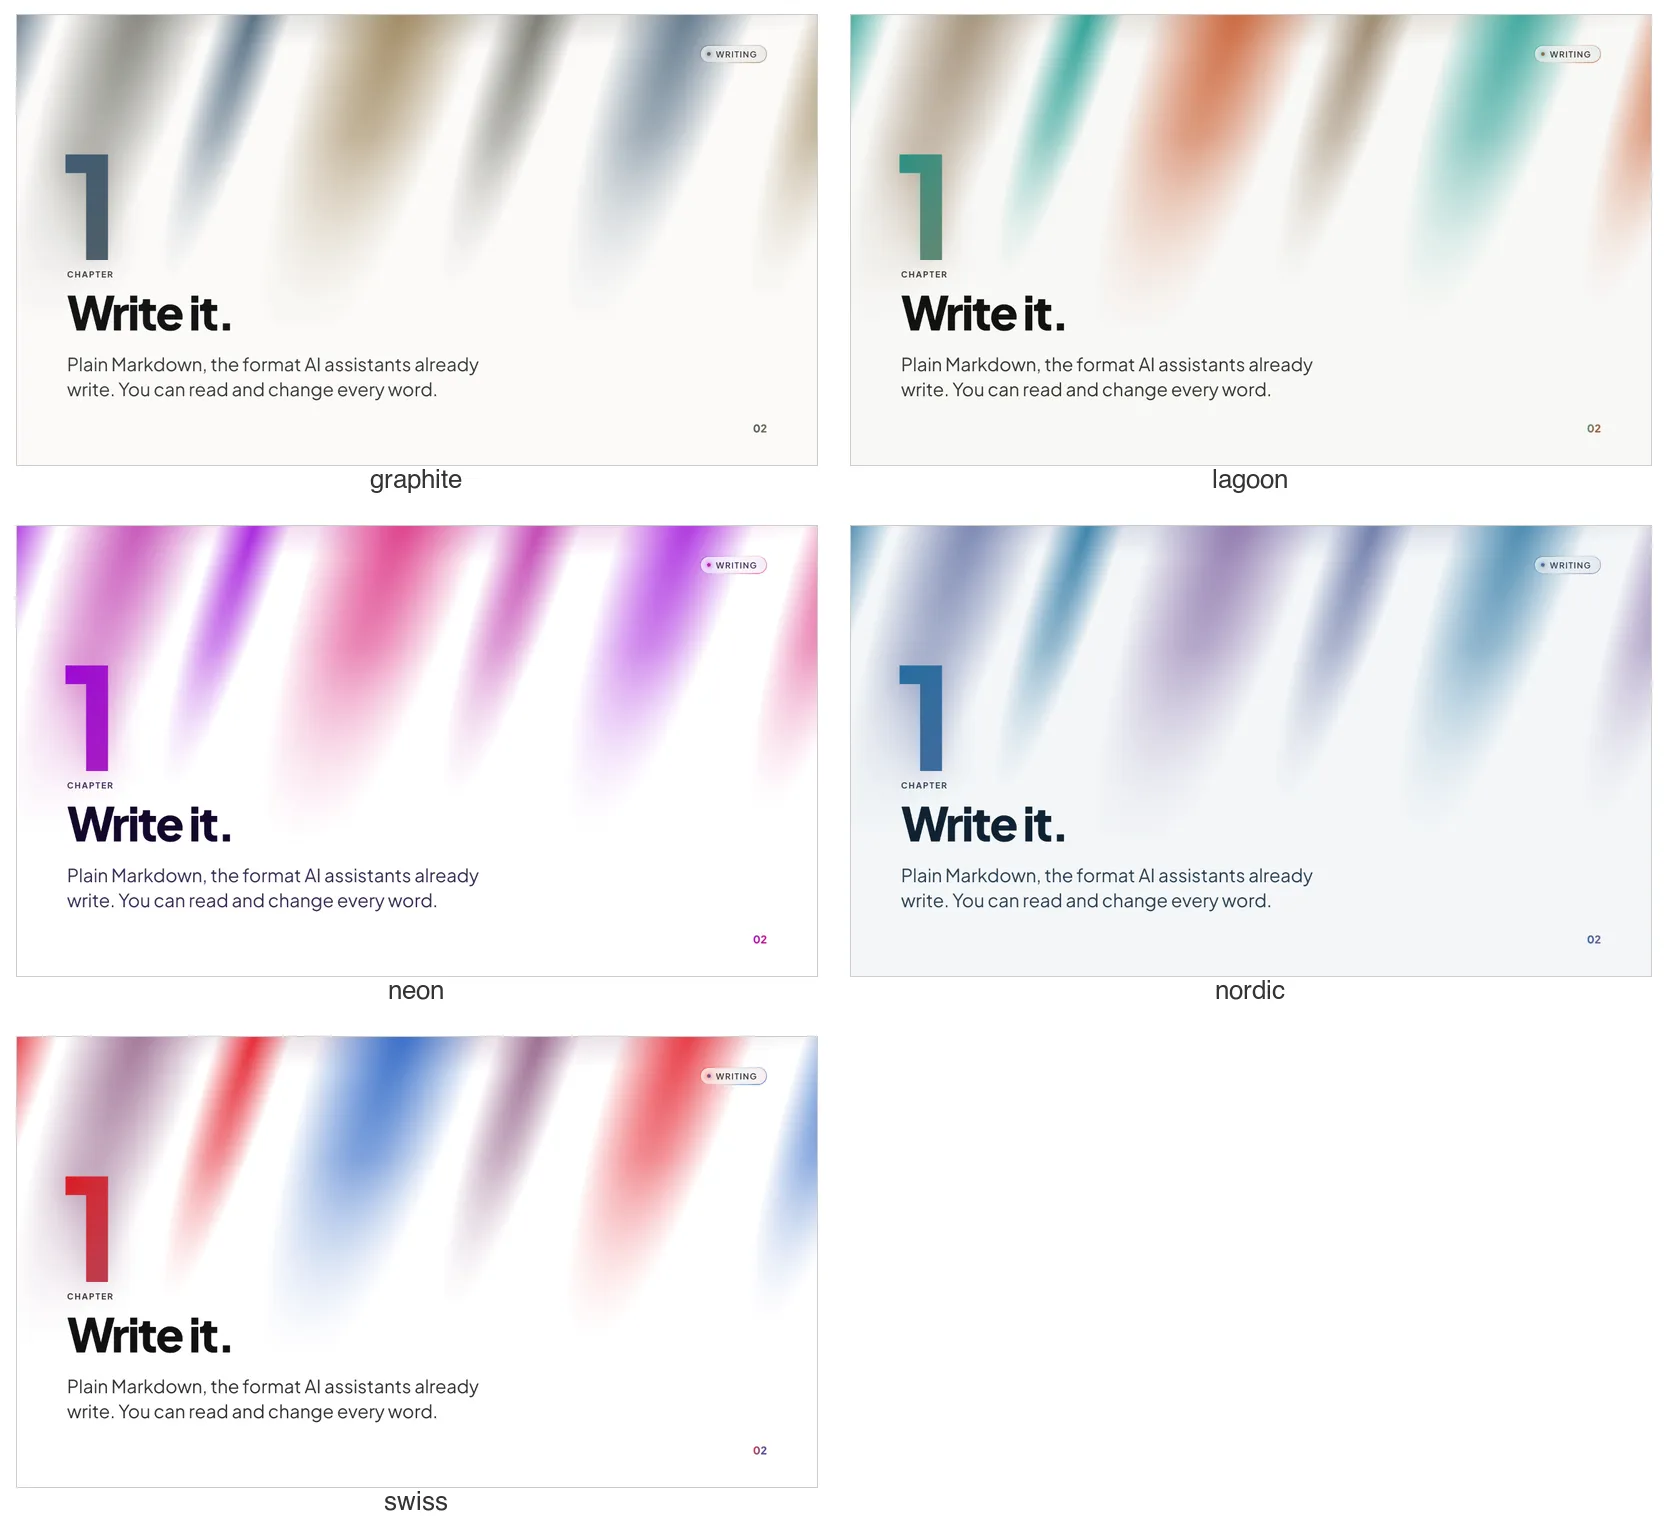
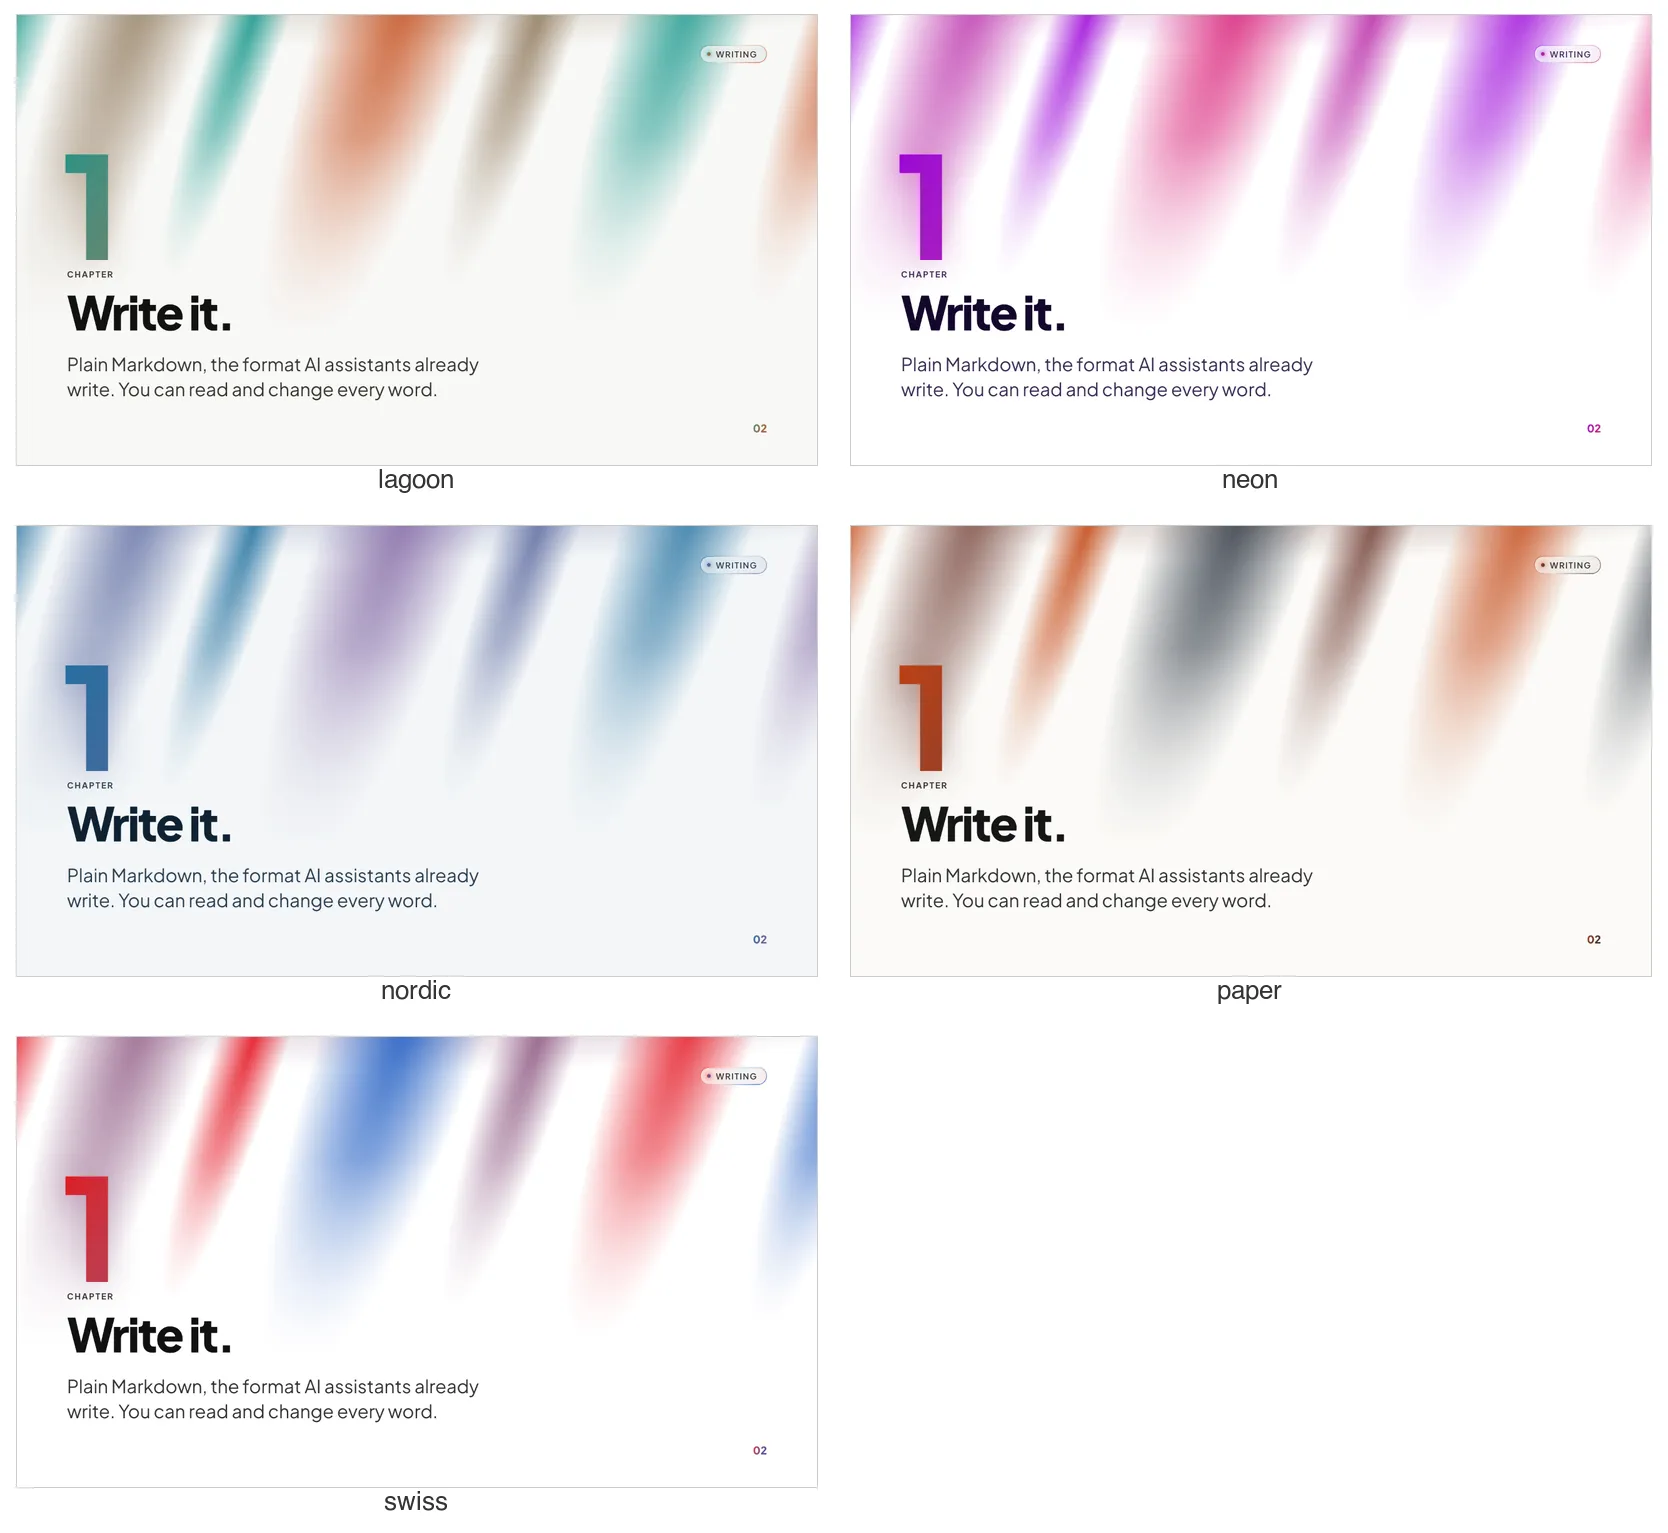
Give minimal its own palette, paper; move graphite to the repository
Paper is off-white and near-black with one orange accent (charcoal and a
softer orange in the dark), clearly apart from swiss and nordic. Graphite,
close to nordic, becomes a pack in the theme repository; a deck that uses
it is told to install it.

diff --git a/tests/extensions.test.js b/tests/extensions.test.js
@@ -90,7 +90,7 @@ test('common manifest mistakes fail with the file, setting path and reason', () 
 
 test('built-in and deck-local extensions load through one registry', () => {
   assert.deepEqual(Object.keys(registry.themes), ['academic', 'aurora', 'minimal', 'neue'])
-  assert.deepEqual(Object.keys(registry.palettes), ['graphite', 'lagoon', 'neon', 'nordic', 'swiss'])
+  assert.deepEqual(Object.keys(registry.palettes), ['lagoon', 'neon', 'nordic', 'paper', 'swiss'])
   assert.equal(registry.layouts.comparison.source, 'local')
   assert.equal(registry.layouts.title.source, 'built-in')
   assert.deepEqual(registry.warnings, [])
@@ -113,7 +113,7 @@ test('the generated runtime module imports every layout and lazily loads theme s
   assert.match(code, /import L\d+ from ".*\/extensions\/comparison\/layout\.jsx"/)
   assert.match(code, /import ".*\/comparison\/styles\.css"/)
   assert.match(code, /"neue": \{ manifest: \{.*"tokens".*load: \(\) => Promise\.all\(\[import\(".*\/packs\/neue\/neue\/styles\.css\?inline"\)\]\)/)
-  assert.match(code, /export const palettes = \{\n"graphite"/)
+  assert.match(code, /export const palettes = \{\n"lagoon"/)
 })
 
 test('a file for readers carries only the deck theme and the palette it shows', () => {
@@ -145,7 +145,7 @@ test('deck checks agree with the registry about themes, palettes and parameters'
   assert.match(foreign[0].message, /The theme "house" does not offer the palette "lagoon"; available: house-colours/)
   const warnings = validateDeck(parseSlides('---\ntheme: night\nparams:\n  fontBody: serif\n---\n# Hi'), houseOptions)
   assert.deepEqual(warnings.map(d => [d.code, d.severity]), [['unknown-param', 'warning']])
-  assert.deepEqual(validateDeck(parseSlides('---\ntheme: aurora\npalette: graphite\nappearance: dark\n---\n# Hi'), options), [])
+  assert.deepEqual(validateDeck(parseSlides('---\ntheme: aurora\npalette: paper\nappearance: dark\n---\n# Hi'), options), [])
   // Themes and palettes that moved to the theme repository say how to get them.
   const moved = validateDeck(parseSlides('---\ntheme: duet\npalette: forest\n---\n# Hi'), options)
   assert.deepEqual(moved.map(d => d.code), ['unknown-theme', 'unknown-palette'])
@@ -203,8 +203,8 @@ test('appearance: the theme default palette, the deck palette and appearance, th
   assert.match(base.paletteCss, /--inverse-accent: #7cc4ea;/)
   assert.equal(base.overridesCss, '')
   assert.deepEqual(base.fonts, theme.fonts)
-  const full = buildAppearance({ theme, palettes, palette: 'graphite', appearance: 'dark', params: { fontBody: 'serif', bogus: 1 }, meta: { title: 'T "q"' }, offline: true })
-  assert.match(full.paletteCss, /--accent: #9fc2e0;/)
+  const full = buildAppearance({ theme, palettes, palette: 'paper', appearance: 'dark', params: { fontBody: 'serif', bogus: 1 }, meta: { title: 'T "q"' }, offline: true })
+  assert.match(full.paletteCss, /--accent: #fb8c4a;/)
   assert.ok(Object.keys(DARK_TOKENS).every(token => full.paletteCss.includes(token)), 'dark code colours and logo filter')
   assert.equal(full.overridesCss, ':root {\n  --font-body: serif;\n  --meta-title: "T \\"q\\"";\n}')
   assert.deepEqual(full.fonts, [])
@@ -213,7 +213,7 @@ test('appearance: the theme default palette, the deck palette and appearance, th
   assert.match(buildAppearance({ theme, palettes, palette: 'missing' }).warnings[0], /^Unknown palette "missing"/)
 
   assert.equal(paletteColor('--accent', { theme, palettes }), '#1f6f9f')
-  assert.equal(paletteColor('--accent', { theme, palettes, palette: 'graphite', appearance: 'dark' }), '#9fc2e0')
+  assert.equal(paletteColor('--accent', { theme, palettes, palette: 'paper', appearance: 'dark' }), '#fb8c4a')
 })
 
 test('mdeck check warns about a misspelled callout type, but not about known blocks or the deck\'s own', () => {

diff --git a/tests/palettes.test.js b/tests/palettes.test.js
@@ -34,18 +34,18 @@ test('a deck gets the theme default, its own palette, and the other variant for 
   assert.equal(plain.appearance, 'light')
   assert.match(plain.paletteCss, /--bg: #ffffff;/)
   assert.match(plain.paletteCss, /--inverse-bg: #0d0d0d;/)
-  const dark = buildAppearance({ theme: themes.neue, palettes, palette: 'graphite', appearance: 'dark' })
-  assert.match(dark.paletteCss, /--bg: #141414;/)
-  assert.match(dark.paletteCss, /--inverse-bg: #fbfaf8;/)
+  const dark = buildAppearance({ theme: themes.neue, palettes, palette: 'paper', appearance: 'dark' })
+  assert.match(dark.paletteCss, /--bg: #151515;/)
+  assert.match(dark.paletteCss, /--inverse-bg: #fbfaf7;/)
   assert.match(dark.paletteCss, /color-scheme: dark;/)
   assert.equal(buildAppearance({ theme: houseThemes.night, palettes }).appearance, 'dark', 'night starts dark')
 })
 
 test('an unknown palette, or one the theme does not offer, falls back to the default with a warning', () => {
-  const unknown = resolvePalette({ theme: themes.neue, palettes, palette: 'paper' })
+  const unknown = resolvePalette({ theme: themes.neue, palettes, palette: 'papyrus' })
   assert.equal(unknown.palette.id, 'swiss')
-  assert.match(unknown.warnings[0], /Unknown palette "paper"/)
-  const foreign = resolvePalette({ theme: houseThemes.house, palettes: housePalettes, palette: 'graphite' })
+  assert.match(unknown.warnings[0], /Unknown palette "papyrus"/)
+  const foreign = resolvePalette({ theme: houseThemes.house, palettes: housePalettes, palette: 'paper' })
   assert.equal(foreign.palette.id, 'house-colours')
   assert.match(foreign.warnings[0], /does not offer/)
 })

diff --git a/tests/editor-extensions.test.js b/tests/editor-extensions.test.js
@@ -24,13 +24,13 @@ test('every built-in manifest round-trips through the editor model', () => {
 })
 
 test('starter files for new extensions validate', () => {
-  for (const [kind, from] of [['palette', null], ['palette', registry.palettes.graphite.manifest], ['theme', registry.themes.aurora.manifest]]) {
+  for (const [kind, from] of [['palette', null], ['palette', registry.palettes.paper.manifest], ['theme', registry.themes.aurora.manifest]]) {
     const files = starterFiles(kind, 'fresh', 'Fresh', from, { 'styles.css': '.slide {}' })
     const record = validateManifest(parseManifest(files['extension.toml']).raw, { file: 'x', dir: '/x/fresh', folderName: 'fresh', fileExists: path => Object.hasOwn(files, path.slice('/x/fresh/'.length)) })
     assert.equal(record.kind, kind)
     assert.equal(record.title, 'Fresh')
     if (kind === 'theme') assert.equal(record.manifest.palette, 'neon', 'a copy keeps the default palette')
-    if (kind === 'palette' && from) assert.equal(record.manifest.dark['--accent'], '#9fc2e0', 'a copy keeps both variants')
+    if (kind === 'palette' && from) assert.equal(record.manifest.dark['--accent'], '#fb8c4a', 'a copy keeps both variants')
   }
   assert.throws(() => starterFiles('theme', 'fresh', 'Fresh'), /copy/)
   assert.match(parseManifest('id = \n').error, /value expected|invalid value/)

diff --git a/tests/edit.test.js b/tests/edit.test.js
@@ -138,10 +138,10 @@ test('every helper keeps the example decks valid', () => {
   check(setRegion(deck, 'deployment-options', 'left', '## Left\n\nChanged'))
   check(setSlideMeta(deck, 'deployment-options', { props: { ratio: [1, 1], emphasis: 'left' }, section: 'Intro' }))
   check(setSlideNotes(deck, 'built-in-regions', 'Remember to pause.'))
-  check(setDeckConfig(deck, { palette: 'graphite', appearance: 'dark' }))
+  check(setDeckConfig(deck, { palette: 'paper', appearance: 'dark' }))
   check(insertSlide(deck, 1, layouts.split.starter).source)
   check(moveSlide(deck, 'built-in-regions', 0).source)
   assert.equal(deck.slides.length, 3)
   assert.equal(deck.slides[1].regions.left.content, '## Left\n\nChanged')
-  assert.deepEqual(deck.deckConfig, { theme: 'neue', meta: { title: 'Deck-local layouts' }, palette: 'graphite', appearance: 'dark' })
+  assert.deepEqual(deck.deckConfig, { theme: 'neue', meta: { title: 'Deck-local layouts' }, palette: 'paper', appearance: 'dark' })
 })

diff --git a/src/extensions/moved.js b/src/extensions/moved.js
@@ -3,7 +3,7 @@
 // how to install it instead of being told the name is unknown.
 export const MOVED = {
   themes: { duet: 'duet', editorial: 'editorial', fhnw: 'fhnw', terminal: 'terminal', sketch: 'sketch' },
-  palettes: { cobalt: 'duet', terra: 'editorial', brand: 'fhnw', phosphor: 'terminal', pastel: 'sketch', ember: 'earth', forest: 'earth' },
+  palettes: { cobalt: 'duet', terra: 'editorial', brand: 'fhnw', phosphor: 'terminal', pastel: 'sketch', ember: 'earth', forest: 'earth', graphite: 'graphite' },
 }
 
 // "The theme "duet" is no longer built in: mdeck themes install duet", or null.

diff --git a/CHANGELOG.md b/CHANGELOG.md
@@ -2,11 +2,11 @@
 
 ## 3.0.0 — unreleased
 
-- Every theme and palette now comes in a pack, also those that come with mdeck: `neue`, `academic`, `aurora` and `minimal` (each a theme with its palette) and the palette `lagoon`. They work right away and offline, and can be removed: `mdeck themes remove aurora` hides it from every deck, `mdeck themes install aurora` brings it back without the internet. A newer version from the theme repository replaces the bundled one. A deck without a theme still uses `neue`, and says so when it was removed; the last theme cannot be removed.
+- Every theme and palette now comes in a pack, also those that come with mdeck: `neue`, `academic`, `aurora` and `minimal` (each a theme with its palette) and the palette `lagoon`. `graphite`, close to `nordic`, moved to the theme repository as a pack of its own. They work right away and offline, and can be removed: `mdeck themes remove aurora` hides it from every deck, `mdeck themes install aurora` brings it back without the internet. A newer version from the theme repository replaces the bundled one. A deck without a theme still uses `neue`, and says so when it was removed; the last theme cannot be removed.
 - `mdeck themes install <pack>` installs for every deck by default; a slide file, a folder or `--local` installs beside that deck. Packs can require other packs (`requires = ["lagoon"]` in `pack.toml`) for palettes their themes use: installing one installs those too, and removing a pack another one needs is refused. The design page lists the packs you can install, including removed bundled ones, and removes a pack for every deck.
 - `mdeck check` no longer warns about themes installed for every deck.
 - Fewer built-in looks: mdeck now comes with the themes `neue`, `academic`, `aurora` and the new `minimal` and the palettes `swiss`, `nordic`, `neon`, `lagoon` and `graphite`. The others moved to the theme repository as packs of the same name: `duet` (with `cobalt`), `editorial` (with `terra`), `fhnw` (with `brand`), `terminal` (with `phosphor`) and `sketch` (with `pastel`), and the palettes `ember` and `forest` as `earth`. A deck that uses one gets an error that says what to run, for example `mdeck themes install duet my-talk.md`; files made with `mdeck send` or `mdeck build` keep working, because they carry their theme.
-- New theme `minimal`: nothing but the content, in the computer's own fonts (no web fonts, so it works offline), with medium weights, space instead of rules and boxes, and "Chapter 2" as a quiet label above chapter titles. Its default palette is `graphite`.
+- New theme `minimal`: nothing but the content, in the computer's own fonts (no web fonts, so it works offline), with medium weights, space instead of rules and boxes, and "Chapter 2" as a quiet label above chapter titles. Its default palette is the new `paper`: off-white and near-black with one orange accent, charcoal and a softer orange in the dark.
 - The sample deck's picture is a drawing in the palette's colours, and an SVG data URL that uses theme colours is drawn inline like an SVG file. A drawing in a picture's place now takes the space the layout gives it, like a photo, instead of pushing headings aside.
 - The launch page of `mdeck run` has a Theme editor tile under Write and learn; it opens the design page of the deck's editor.
 - The examples use built-in themes: the Python lesson `academic`, the poll and custom-layout examples `neue`, the docs home page talk `academic`.

diff --git a/docs/site/content/appearance.md b/docs/site/content/appearance.md
@@ -58,7 +58,7 @@ Default colours: `nordic`.
 
 [![The tour's title slide in the Minimal theme](images/themes/minimal.webp)](images/themes/minimal.webp)
 
-Default colours: `graphite`. It uses the fonts already on the computer, so it needs no internet connection and looks plain on purpose.
+Default colours: `paper`. It uses the fonts already on the computer, so it needs no internet connection and looks plain on purpose.
 
 ## Choose colours
 
@@ -70,12 +70,12 @@ To use other colours, set `palette` to one of these:
 | `nordic` | Ice grey, deep navy and a cool steel blue (academic's own) |
 | `neon` | Violet and magenta, loud (aurora's own) |
 | `lagoon` | Teal on warm stone |
-| `graphite` | Black and white with a steel-blue accent |
+| `paper` | Off-white and near-black with one orange accent (minimal's own) |
 
 ```yaml
 ---
 theme: neue
-palette: graphite
+palette: paper
 ---
 ```
 
@@ -133,6 +133,7 @@ Earlier versions of mdeck came with more themes and palettes. They are now packs
 | `terminal` | The terminal theme (headings typed at a prompt, a status bar) and the `phosphor` palette; it starts dark |
 | `sketch` | The sketch theme (handwriting, marker scribbles, sticky notes) and the `pastel` palette |
 | `earth` | The `ember` and `forest` palettes |
+| `graphite` | The `graphite` palette: black and white with a steel-blue accent |
 
 A deck that still names one of them stops with a message that tells you what to install, for example:
 

diff --git a/docs/reference/authoring.md b/docs/reference/authoring.md
@@ -41,7 +41,7 @@ Each `---` line starts a new slide. Frontmatter is only needed when you want a s
 | Field | Default | Description |
 |---|---|---|
 | `theme` | `neue` | Theme name |
-| `palette` | _(theme default)_ | Colour palette: `swiss`, `nordic`, `neon`, `lagoon`, `graphite`, one installed from the theme repository, or one of your own |
+| `palette` | _(theme default)_ | Colour palette: `swiss`, `nordic`, `neon`, `lagoon`, `paper`, one installed from the theme repository, or one of your own |
 | `appearance` | _(theme default)_ | `light` or `dark`: which variant of the palette the slides use |
 | `meta.title` | — | Deck title (shown in footer) |
 | `meta.author` | — | Author name (shown in footer) |
@@ -126,7 +126,7 @@ Each palette has a light and a dark variant; `appearance:` picks one.
 | `nordic` | Ice grey, navy, steel blue (academic's default) | Polar night, ice blue |
 | `neon` | White, violet, magenta (aurora's default) | Black, neon violet and pink |
 | `lagoon` | Teal on warm stone | Bright teal on teal-black |
-| `graphite` | Black and white, steel blue | Charcoal, light steel blue |
+| `paper` | Off-white, near-black, orange (minimal's default) | Charcoal, soft orange |
 
 More palettes (cobalt, terra, phosphor, pastel, ember, forest, among others)
 are in the theme repository; install them with `mdeck themes install <pack> <deck>.md`.

diff --git a/docs/reference/themes.md b/docs/reference/themes.md
@@ -18,7 +18,7 @@ theme: neue
 |---|---|---|
 | `neue` | Swiss style: large flush-left type, rules, red on white | `swiss` |
 | `aurora` | Northern lights: curtains of light, night-sky chapters, frosted glass | `neon` |
-| `minimal` | Nothing but the content: system fonts, calm type, no decoration; works offline | `graphite` |
+| `minimal` | Nothing but the content: system fonts, calm type, no decoration; works offline | `paper` |
 | `academic` | A lecture: compact type, the heading fixed at the top and the content centred below, theorem and definition blocks, booktabs tables, a footnote rule | `nordic` |
 
 `mdeck list my-talk.md` lists them with their descriptions.

diff --git a/docs/reference/palettes.md b/docs/reference/palettes.md
@@ -24,7 +24,7 @@ The presenter view and the reader view switch palette and light or dark without 
 | `nordic` | ice grey, deep navy and a cool steel blue | polar night with ice blue |
 | `neon` | white with violet and magenta | black with neon violet and pink |
 | `lagoon` | teal on warm stone, orange second accent | deep teal-black, bright teal |
-| `graphite` | black and white with a steel-blue accent | charcoal with light steel blue |
+| `paper` | off-white paper and near-black ink with one orange accent | charcoal with a softer orange |
 
 `mdeck list palettes` lists them, with any of your own.
 

diff --git a/skills/write-slides/SKILL.md b/skills/write-slides/SKILL.md
@@ -34,7 +34,7 @@ If `mdeck` is not installed, rely on the quick reference below.
 ```markdown
 ---
 theme: neue            # theme id from `mdeck list themes`
-palette: nordic         # optional: swiss, nordic, neon, lagoon, graphite, or one installed from the theme repository (`mdeck themes search`)
+palette: nordic         # optional: swiss, nordic, neon, lagoon, paper, or one installed from the theme repository (`mdeck themes search`)
 appearance: light       # optional: light or dark
 meta:
   title: "Talk title"

diff --git a/examples/python/slides.md b/examples/python/slides.md
@@ -5,7 +5,7 @@ meta:
   author: "Tilman Schieber"
   organization: "FHNW"
   date: "2026-05-19"
-palette: graphite
+palette: paper
 ---
 
 ---
